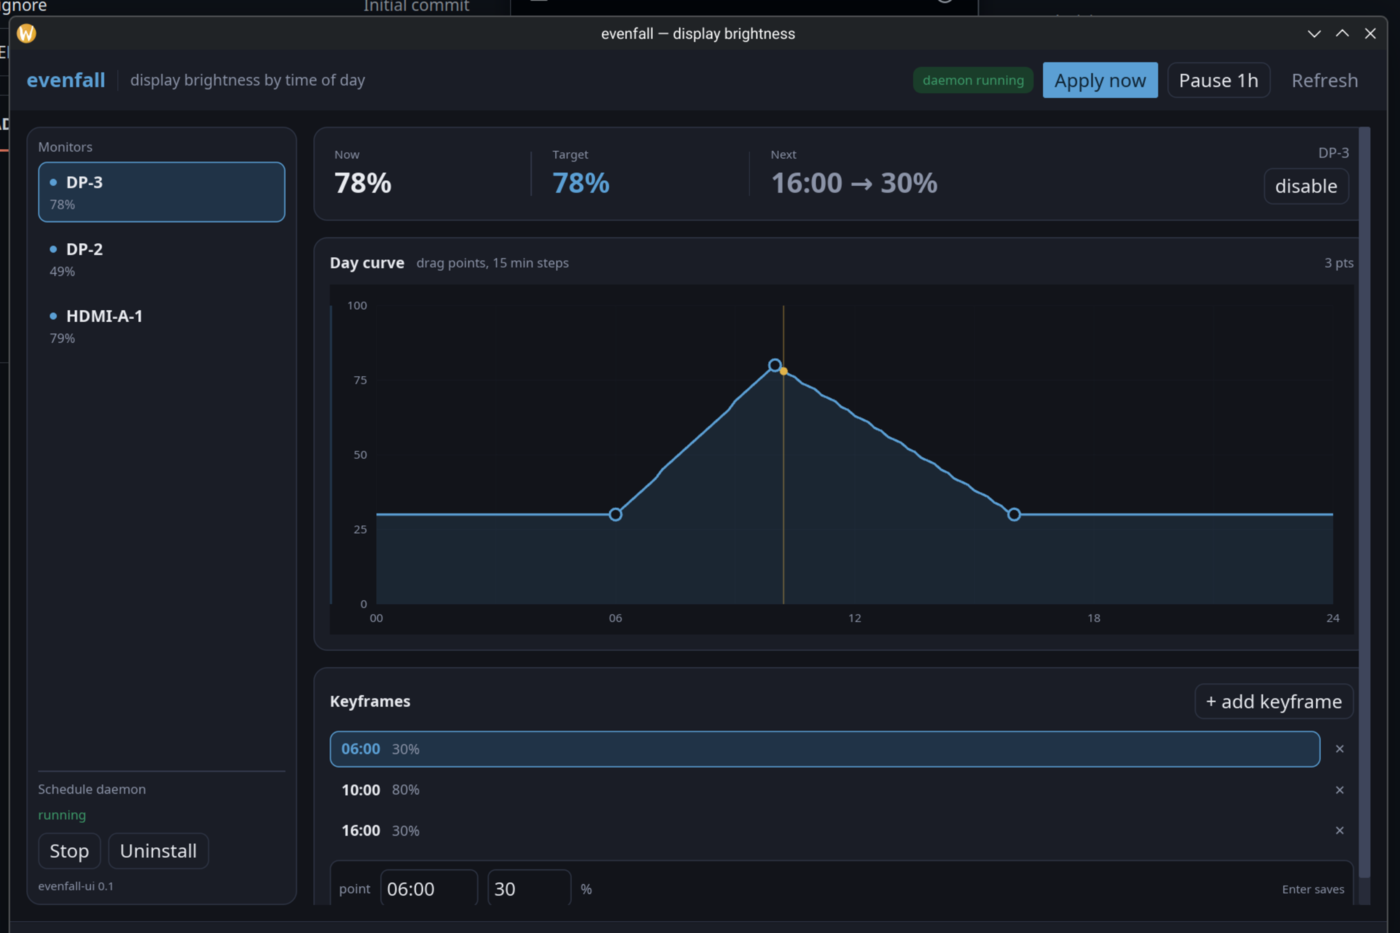
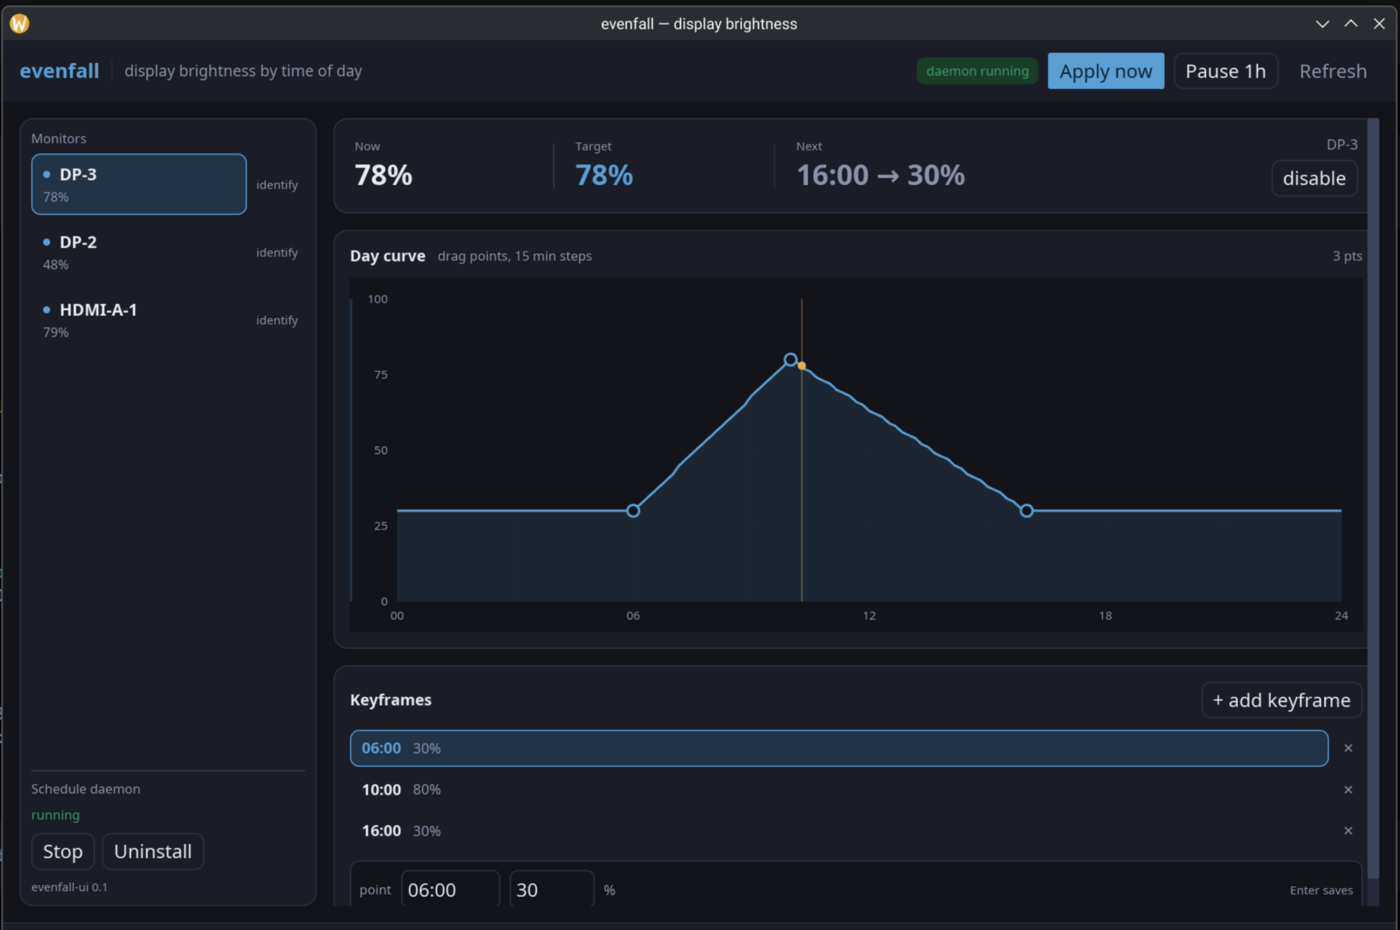
identify: flash a monitor to map connector names to panels
evenfall identify [MONITOR...] blinks each screen between 100% and 10%, then
restores what it found. The UI exposes it as an identify action on every
monitor row.

diff --git a/ui/src/view.rs b/ui/src/view.rs
@@ -121,27 +121,35 @@ fn sidebar(app: &App) -> Element<'_, Message> {
         let dot = if monitor.enabled { ACCENT } else { MUTED };
 
         list = list.push(
-            button(
-                column![
-                    row![
-                        container(Space::new().width(6).height(6))
-                            .style(chip(dot, dot)),
-                        text(&monitor.name).size(14).font(bold()).color(TEXT),
-                        space::horizontal(),
-                        text(if monitor.enabled { "" } else { "off" })
-                            .size(10)
-                            .color(MUTED),
+            row![
+                button(
+                    column![
+                        row![
+                            container(Space::new().width(6).height(6))
+                                .style(chip(dot, dot)),
+                            text(&monitor.name).size(14).font(bold()).color(TEXT),
+                            space::horizontal(),
+                            text(if monitor.enabled { "" } else { "off" })
+                                .size(10)
+                                .color(MUTED),
+                        ]
+                        .spacing(8)
+                        .align_y(Alignment::Center),
+                        text(status).size(11).color(status_color),
                     ]
-                    .spacing(8)
-                    .align_y(Alignment::Center),
-                    text(status).size(11).color(status_color),
-                ]
-                .spacing(3),
-            )
-            .style(style::monitor_row(selected))
-            .on_press(Message::SelectMonitor(index))
-            .padding([8, 10])
-            .width(Fill),
+                    .spacing(3),
+                )
+                .style(style::monitor_row(selected))
+                .on_press(Message::SelectMonitor(index))
+                .padding([8, 10])
+                .width(Fill),
+                button(text("identify").size(10).color(MUTED))
+                    .style(style::quiet)
+                    .on_press(Message::Identify(monitor.name.clone()))
+                    .padding([4, 6]),
+            ]
+            .spacing(2)
+            .align_y(Alignment::Center),
         );
     }
 
@@ -187,7 +195,7 @@ fn sidebar(app: &App) -> Element<'_, Message> {
         .spacing(8),
     )
     .style(style::panel)
-    .width(Length::Fixed(232.0))
+    .width(Length::Fixed(252.0))
     .height(Fill)
     .padding(10)
     .into()

diff --git a/ui/src/app.rs b/ui/src/app.rs
@@ -27,6 +27,8 @@ pub enum Message {
     UninstallDaemon,
     StartDaemon,
     StopDaemon,
+    Identify(String),
+    Identified(Result<(), String>),
 }
 
 pub struct App {
@@ -341,6 +343,29 @@ pub fn update(app: &mut App, message: Message) -> iced::Task<Message> {
                 Ok(()) => {
                     app.ok = true;
                     app.status = "daemon removed, curve kept in config".to_string();
+                }
+                Err(err) => {
+                    app.ok = false;
+                    app.status = err;
+                }
+            }
+            app.refresh_hardware();
+        }
+
+        Message::Identify(name) => {
+            app.ok = true;
+            app.status = format!("identifying {name}");
+            return iced::Task::perform(
+                async move { system::identify(&name) },
+                Message::Identified,
+            );
+        }
+
+        Message::Identified(result) => {
+            match result {
+                Ok(()) => {
+                    app.ok = true;
+                    app.status = "identified".to_string();
                 }
                 Err(err) => {
                     app.ok = false;

diff --git a/ui/src/system.rs b/ui/src/system.rs
@@ -59,6 +59,10 @@ pub fn run_cli(args: &[&str]) -> Result<String, String> {
     }
 }
 
+pub fn identify(name: &str) -> Result<(), String> {
+    run_cli(&["identify", name]).map(|_| ())
+}
+
 pub fn apply_brightness() -> Result<(), String> {
     run_cli(&["apply"]).map(|_| ())
 }

diff --git a/README.md b/README.md
@@ -64,6 +64,8 @@ evenfall status               # current vs scheduled brightness, next change
 evenfall preview              # the day curve as a sparkline
 evenfall apply                # apply now (overrides manual changes)
 evenfall apply --dry-run      # show what would be written
+evenfall identify DP-2        # flash a monitor so you know which one it is
+evenfall identify             # flash every monitor in turn
 evenfall pause 2h             # leave the screens alone (film, presentation, photos)
 evenfall resume
 systemctl --user restart evenfall        # restart the daemon
@@ -78,6 +80,10 @@ journalctl --user -u evenfall -f         # watch brightness changes
 lets you drag keyframes: 15-minute steps across, 1% up and down. Every edit is
 saved and applied on the spot. Points refuse to land on top of each other, so
 dragging past a neighbour never deletes it.
+
+Each monitor row has an “identify” action: it flashes that screen three times
+between 100% and 10% and puts the brightness back, so a connector name maps to a
+physical panel without guessing. The same lives in `evenfall identify`.
 
 The sidebar owns the schedule daemon: install it, start or stop it, and remove
 it again without leaving the app. “Pause 1h” mutes the schedule without
